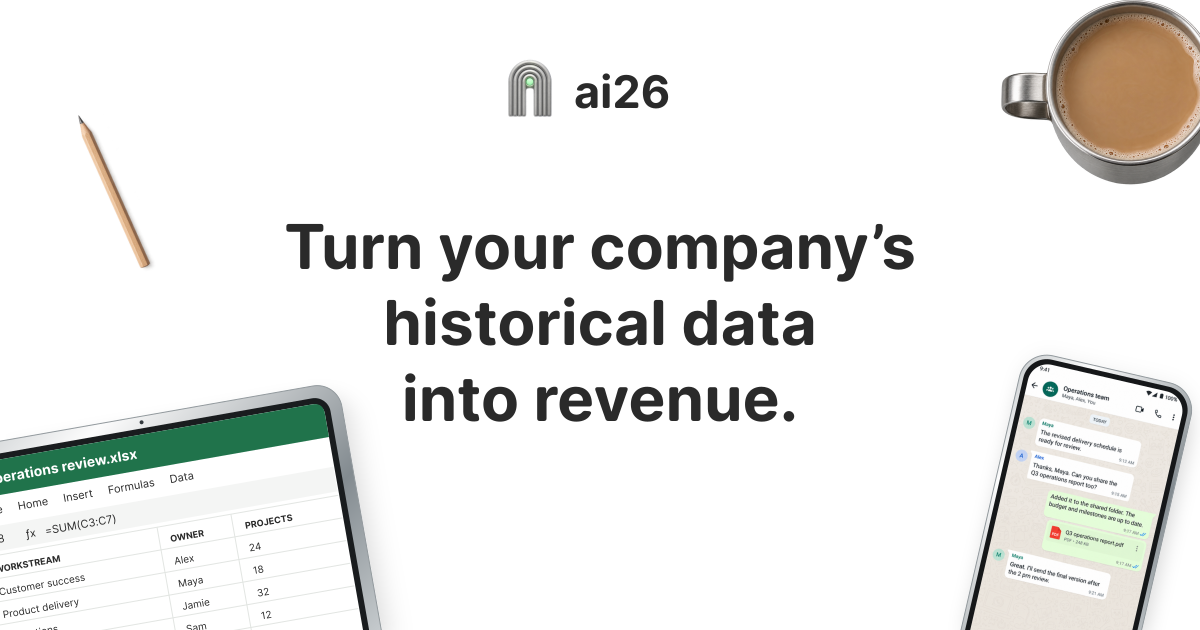
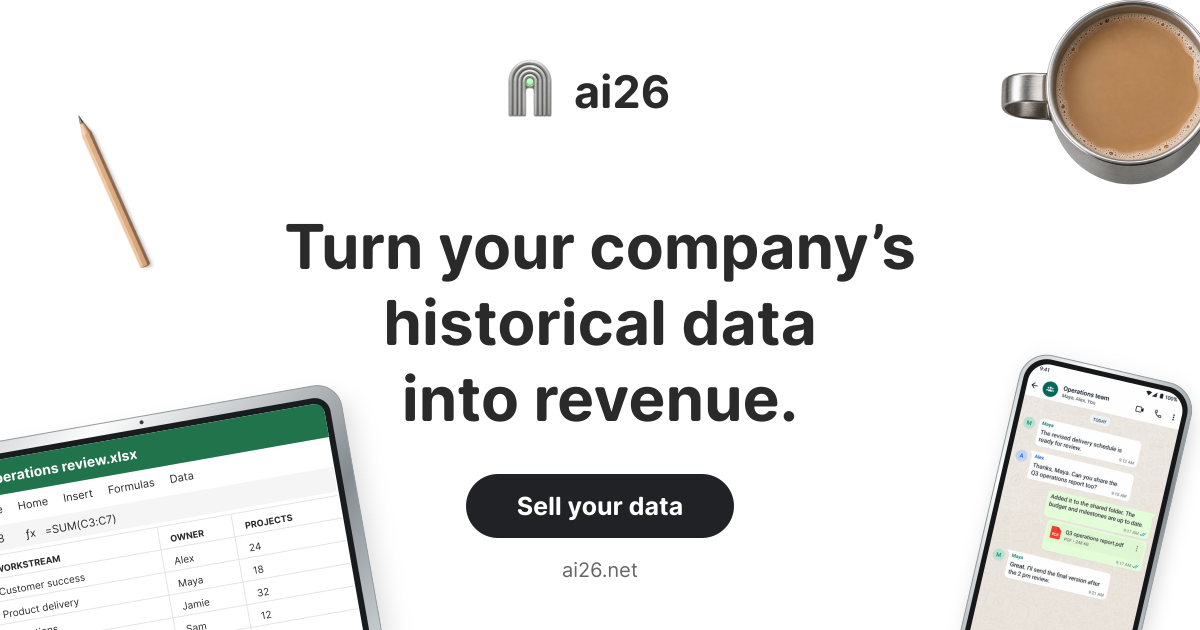
Refine site copy and improve social preview metadata

Changed region(s): [[0.37, 0.754, 0.6167, 0.9349]]

diff --git a/legal/buyer-coverage-review.md b/legal/buyer-coverage-review.md
@@ -72,8 +72,8 @@ This is a topic-by-topic drafting crosswalk, not a representation of identical l
 
 ## Additional review sources
 
-- GDPR official consolidated text: https://eur-lex.europa.eu/eli/reg/2016/679/oj/eng/ — transparency, roles and international-transfer prerequisites must be evaluated for the actual data and recipients.
-- California Privacy Protection Agency regulatory explanation: https://cppa.ca.gov/regulations/pdf/20230329_final_sor.pdf — third-party contract and compliance framework. Confirm operative statutory and regulatory text with counsel; the legislature page returned an access error during this session.
+- GDPR official consolidated text: https://eur-lex.europa.eu/eli/reg/2016/679/oj/eng/: transparency, roles and international-transfer prerequisites must be evaluated for the actual data and recipients.
+- California Privacy Protection Agency regulatory explanation: https://cppa.ca.gov/regulations/pdf/20230329_final_sor.pdf: third-party contract and compliance framework. Confirm operative statutory and regulatory text with counsel; the legislature page returned an access error during this session.
 
 ## Before external use
 

diff --git a/public/desk/README.md b/public/desk/README.md
@@ -1,6 +1,6 @@
 # Desk imagery
 
-Source: https://www.acctual.com/ — reference assets reused at the site owner's request.
+Source: https://www.acctual.com/: reference assets reused at the site owner's request.
 
 - macbook.png: https://framerusercontent.com/images/57aau0qXXJZVzKDCkclMnY0ykdc.png
 - keyboard.png: https://framerusercontent.com/images/rHF7ngOvRWlxUCFw3CaFKk47z8.png

diff --git a/legal/ai26-seller-terms-draft.md b/legal/ai26-seller-terms-draft.md
@@ -1,6 +1,6 @@
 # AI26 Data Licensing Terms
 
-Draft v0.1 — 16 October 2026. For legal review before execution.
+Draft v0.1: 16 October 2026. For legal review before execution.
 
 Stoa Labs FZ-LLC, Ras Al Khaimah, United Arab Emirates.
 

diff --git a/legal/order-form-checklist.md b/legal/order-form-checklist.md
@@ -1,4 +1,4 @@
-# AI26 seller order — completion checklist
+# AI26 seller order: completion checklist
 
 Use with draft v0.1 dated 16 October 2026. This checklist is not an executed order.
 
